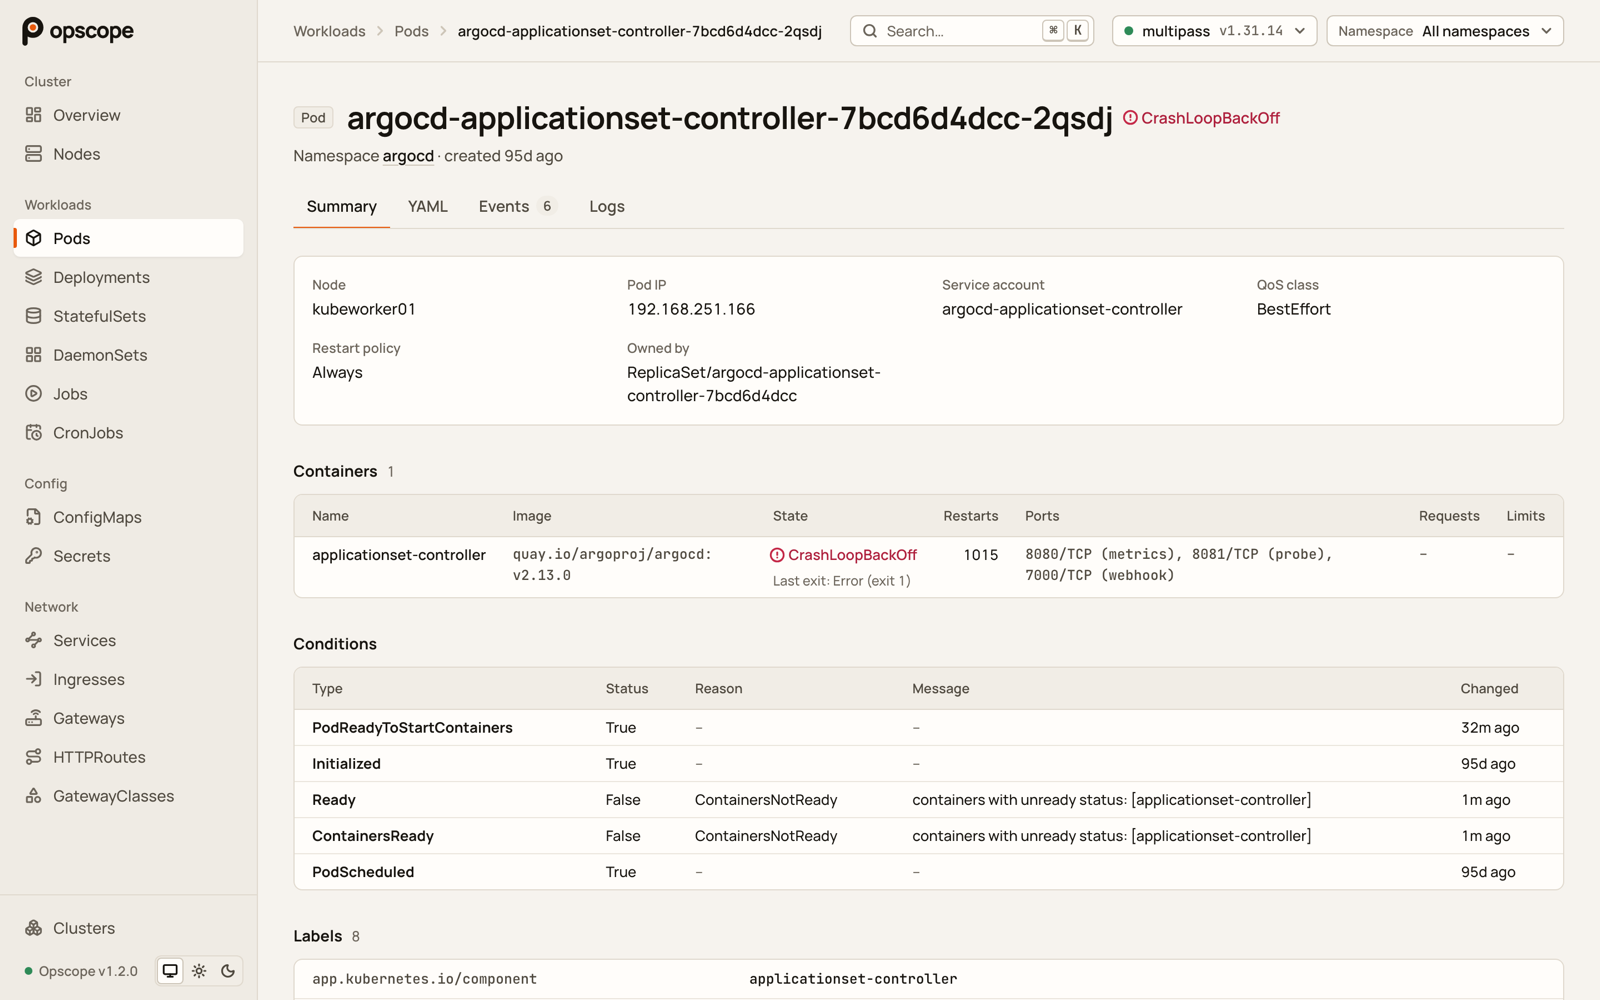
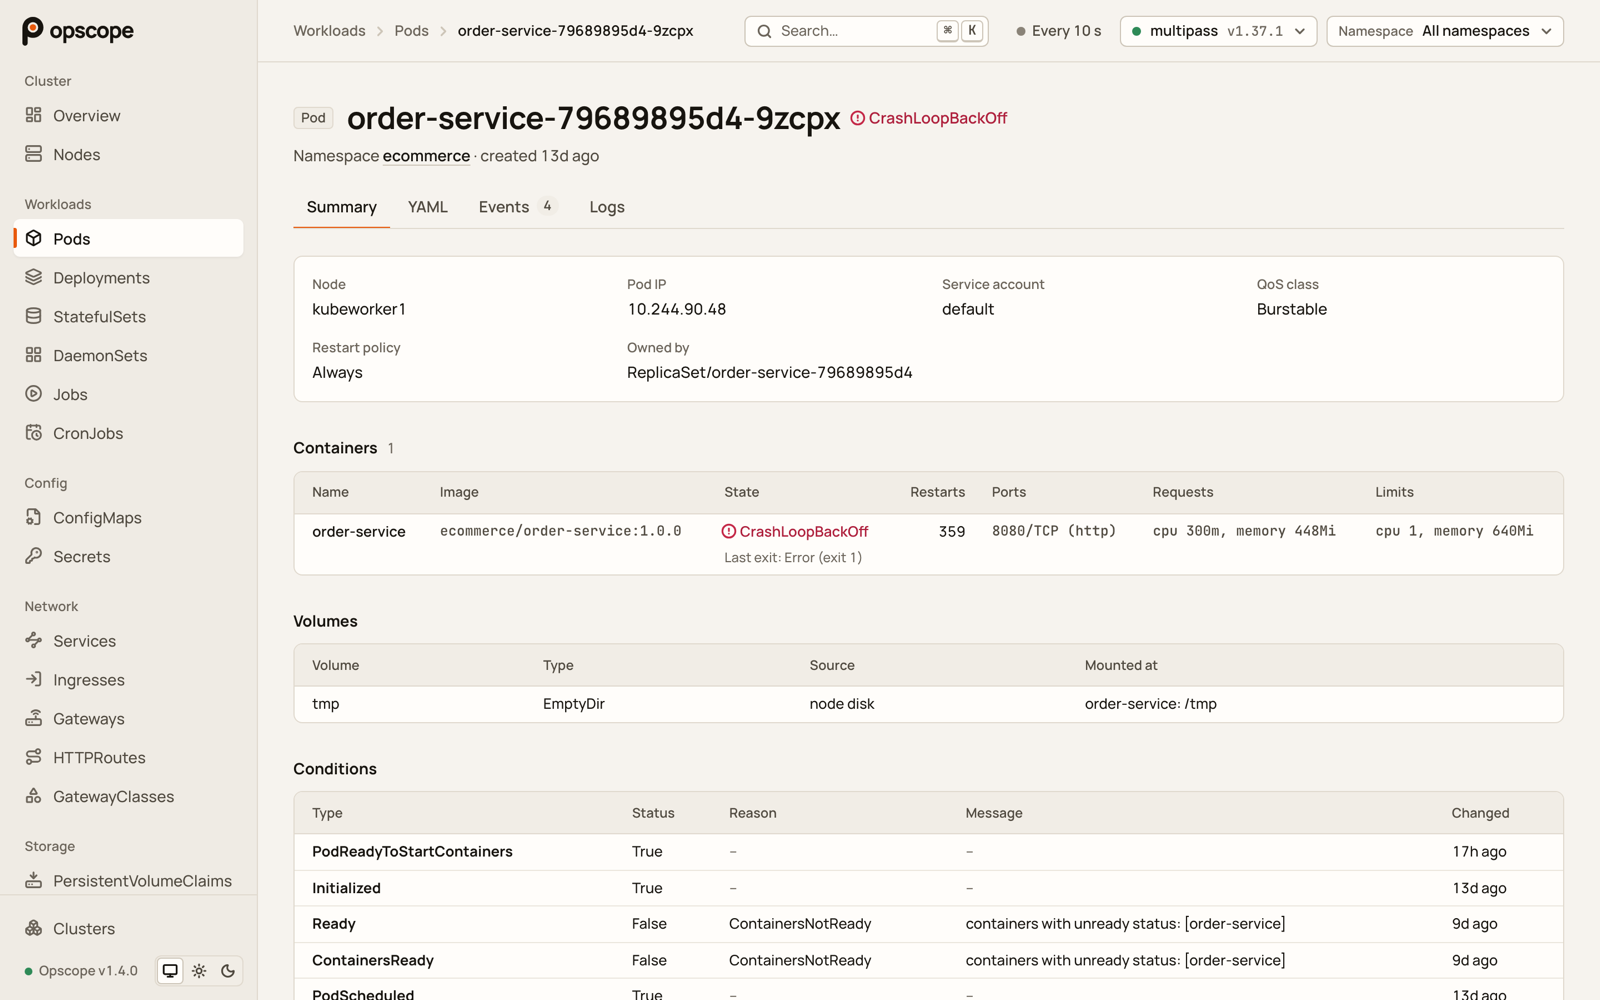
Release v1.4.0 (phase L7)
Point the deploy manifest at the v1.4.0 image, so the release
workflow's manifest check passes, and update the version in the
README's and deployment.md's manifest URLs, the image tag table, the
api.md health example and the bug report placeholder.

The README gains a Live updates feature and says the live copy drops
Secret values; the overview, pods and pod screenshots are retaken to
show the indicator. deployment.md says detail pages read "Every 10 s".
The live data design record is marked as released in v1.4.0, added to
the records table, and has the notes from the release checks.

diff --git a/docs/design/live-data.md b/docs/design/live-data.md
@@ -17,7 +17,7 @@ build phases 0–8 or the D, G, P, R and S phases. All work happens on the `docs
 one commit per phase; each phase is reviewed before it is committed, and the next phase starts only
 after that.
 
-**Status (2026-11-02):** planned.
+**Status (2026-11-07):** L0–L7 done, released in v1.4.0.
 
 **Legend:** `[x]` done · `[ ]` not done yet · `[~]` partly done or changed (see notes)
 
@@ -350,14 +350,14 @@ Goal: checked against failure cases, with published memory numbers.
 
 Goal: v1.4.0 is ready to tag.
 
-- [ ] Bugs found on the way fixed, one commit each
-- [ ] README feature list, screenshots that show the indicator
-- [ ] Every check CI runs: `make test`, `go vet`, `gofmt`, the frontend build, `make docker-build`
-- [ ] Full browser pass: light and dark, keyboard only, 375 px and wide, with and without
+- [x] Bugs found on the way fixed, one commit each
+- [x] README feature list, screenshots that show the indicator
+- [x] Every check CI runs: `make test`, `go vet`, `gofmt`, the frontend build, `make docker-build`
+- [x] Full browser pass: light and dark, keyboard only, 375 px and wide, with and without
       metrics-server and Gateway API, two clusters connected
-- [ ] Image tag in `deploy/kubernetes/opscope.yaml` and the manifest URLs in the README and
+- [x] Image tag in `deploy/kubernetes/opscope.yaml` and the manifest URLs in the README and
       `docs/deployment.md` set to v1.4.0
-- [ ] Status line, design record table, release notes drafted (the tag is pushed by the maintainer)
+- [x] Status line, design record table, release notes drafted (the tag is pushed by the maintainer)
 
 ## Not in this release
 
@@ -734,3 +734,32 @@ Goal: v1.4.0 is ready to tag.
 - Open question 4 (Events): an event takes a tenth of a pod's memory, so the proposal is to keep
   them cached; it's marked for review. Question 3 (`/metrics`) is unchanged: these measurements
   didn't need it.
+
+### L7: Release (2026-11-07)
+
+- Every check CI runs, on the branch: `go vet`, `gofmt`, `go test ./...` (also with `-race`), the
+  102 frontend tests, the frontend build, `make docker-build`, and the image for `linux/amd64` as
+  CI builds it. `.github/scripts/check-manifest-tag.sh v1.4.0` passes on the manifest.
+- Browser pass on a build served by the Go server as v1.4.0, with two clusters connected:
+  multipass (read-only), which has metrics-server and Gateway API, and a throwaway kind cluster
+  with `test/scenarios/workloads.yaml`, which has neither (deleted afterwards).
+  - Every page on both clusters: the indicator read "Live", no console errors. On kind, the usage
+    and Gateway API pages said what isn't installed, as before.
+  - Keyboard only: the skip link, back into the top bar, Enter opens the indicator's panel,
+    Escape closes it and returns focus, ⌘K finds the `oom` pod and opens it.
+  - 375 px: the panel stays on screen and the page doesn't scroll sideways. Light and dark in
+    `/kit` and in the screenshots.
+- Found and fixed (its own commit): detail pages said "Live", but they're read on their 10-second
+  timer, since live detail pages aren't in this release. A detail page now passes no live kinds,
+  and the indicator says "Every 10 s" in a neutral tone, explaining that lists and the overview
+  update live. The panel still lists the kinds that aren't watched. In `/kit` as "Detail page",
+  with a test; `docs/deployment.md` says so.
+- README: a "Live updates" feature, tables no longer described as refreshing on their own, and
+  Secret values dropped from the live copy in the Security section. The overview, pods and pod
+  screenshots were retaken on multipass, light and dark, so they show the indicator, the same way
+  as before (1440 × 900 at 2×, scaled to 1600 × 1000), now from a small script driving headless
+  Chrome over its DevTools protocol, which waits until the page has settled.
+- Version: the manifest's image, the manifest URLs in the README and `docs/deployment.md`, the
+  image tag table, the health example in `docs/api.md` and the bug report placeholder say v1.4.0.
+  The record is in the design records table.
+- Open questions 3 and 4 are still open, with their proposals.

diff --git a/docs/deployment.md b/docs/deployment.md
@@ -54,7 +54,7 @@ The manifests in each release tag use that release's published image, so you can
 straight from GitHub:
 
 ```bash
-kubectl apply -f https://raw.githubusercontent.com/unnikrishnanNam/opscope/v1.3.0/deploy/kubernetes/opscope.yaml
+kubectl apply -f https://raw.githubusercontent.com/unnikrishnanNam/opscope/v1.4.0/deploy/kubernetes/opscope.yaml
 ```
 
 From a clone of the repository, apply `deploy/kubernetes/opscope.yaml` the same way. Apply the file,
@@ -185,7 +185,8 @@ may be out of date, until it answers again.
 
 The top bar says which applies: **Live** when pages update within a few seconds of a change,
 **Every 30 s** or **Every 10 s** when some kinds can't be watched or listed across namespaces.
-Click it for the kinds and the reason.
+Click it for the kinds and the reason. Detail pages always read **Every 10 s**: they're read from
+the cluster each time, as before.
 
 ### Turning live data off
 
@@ -206,13 +207,13 @@ only its type and key names, so values are never stored, cached or logged.
 pod can read every Secret in the cluster, and so can anyone who can reach Opscope. To grant it:
 
 ```bash
-kubectl apply -f https://raw.githubusercontent.com/unnikrishnanNam/opscope/v1.3.0/deploy/kubernetes/secrets-access.yaml
+kubectl apply -f https://raw.githubusercontent.com/unnikrishnanNam/opscope/v1.4.0/deploy/kubernetes/secrets-access.yaml
 ```
 
 To remove it again:
 
 ```bash
-kubectl delete -f https://raw.githubusercontent.com/unnikrishnanNam/opscope/v1.3.0/deploy/kubernetes/secrets-access.yaml
+kubectl delete -f https://raw.githubusercontent.com/unnikrishnanNam/opscope/v1.4.0/deploy/kubernetes/secrets-access.yaml
 ```
 
 The Secrets pages then say that this user isn't allowed to read them.
@@ -314,8 +315,8 @@ Each release is published to the GitHub Container Registry for `linux/amd64` and
 
 | Tag       | Points to                                         |
 | --------- | ------------------------------------------------- |
-| `v1.3.0`  | That release, never moved                         |
-| `1.3`     | The latest release of that minor version          |
+| `v1.4.0`  | That release, never moved                         |
+| `1.4`     | The latest release of that minor version          |
 | `latest`  | The latest release (pre-releases are never tagged `latest`) |
 
 On a server, pin a version tag, so that a restart never upgrades Opscope by surprise. The commands
@@ -365,11 +366,11 @@ Usage history is kept in memory and starts empty after a restart. Each release's
 **In a cluster,** delete the optional roles you applied, then `opscope.yaml`:
 
 ```bash
-kubectl delete -f https://raw.githubusercontent.com/unnikrishnanNam/opscope/v1.3.0/deploy/kubernetes/secrets-access.yaml --ignore-not-found
+kubectl delete -f https://raw.githubusercontent.com/unnikrishnanNam/opscope/v1.4.0/deploy/kubernetes/secrets-access.yaml --ignore-not-found
 ```
 
 ```bash
-kubectl delete -f https://raw.githubusercontent.com/unnikrishnanNam/opscope/v1.3.0/deploy/kubernetes/opscope.yaml
+kubectl delete -f https://raw.githubusercontent.com/unnikrishnanNam/opscope/v1.4.0/deploy/kubernetes/opscope.yaml
 ```
 
 Do the same for `volume-usage.yaml` if you applied it. Deleting `opscope.yaml` deletes the

diff --git a/README.md b/README.md
@@ -27,8 +27,13 @@ machine or inside the cluster it shows.
   resource kind with what needs attention, and recent warning events.
 - **Resources:** Nodes; Pods, Deployments, StatefulSets, DaemonSets, Jobs and CronJobs;
   ConfigMaps and Secrets; Services, Ingresses, and Gateway API Gateways, HTTPRoutes and
-  GatewayClasses; PersistentVolumeClaims, PersistentVolumes and StorageClasses. Tables filter, sort
-  and refresh on their own, with kubectl-style statuses such as `CrashLoopBackOff` and `Init:1/2`.
+  GatewayClasses; PersistentVolumeClaims, PersistentVolumes and StorageClasses. Tables filter and
+  sort, with kubectl-style statuses such as `CrashLoopBackOff` and `Init:1/2`.
+- **Live updates:** lists and the overview change within a second or two of a change in the
+  cluster, without reloading. Opscope watches each cluster and keeps a trimmed copy in memory, so
+  pages load quickly and a cluster gets one watch per kind rather than a request per page view. The
+  top bar says how fresh the page is. Without `watch`, Opscope polls and says so
+  ([permissions](docs/deployment.md#with-less-access), [memory](docs/deployment.md#memory)).
 - **Storage:** claims link to their volumes, StorageClasses and the pods that use them, pods and
   StatefulSets show their volumes and claims, and the overview counts claims that can't bind and
   volumes left behind. Optionally, how full each volume is
@@ -71,7 +76,7 @@ clusters, and cleaning up.
 In the cluster Opscope should show:
 
 ```bash
-kubectl apply -f https://raw.githubusercontent.com/unnikrishnanNam/opscope/v1.3.0/deploy/kubernetes/opscope.yaml
+kubectl apply -f https://raw.githubusercontent.com/unnikrishnanNam/opscope/v1.4.0/deploy/kubernetes/opscope.yaml
 ```
 
 ```bash
@@ -137,7 +142,8 @@ Shortcuts are ignored while you type in a field.
   `127.0.0.1`, reach it through `kubectl port-forward` in a cluster, or put an authenticating proxy
   in front of it. See [Giving people access](docs/deployment.md#giving-people-access).
 - **Secrets** are listed by key name only. A value is fetched only when you choose "Reveal" on one
-  key, is never cached, and never appears in the YAML view. Reading Secrets in a cluster needs a
+  key, is never cached (the live copy drops values as each Secret arrives), and never appears in
+  the YAML view. Reading Secrets in a cluster needs a
   separate, optional role.
 - **Volume usage** is off by default. It needs `get` on `nodes/proxy`, which reaches the kubelet's
   whole API, so it's turned on deliberately, with a setting and a separate, optional role. See
@@ -151,7 +157,7 @@ Shortcuts are ignored while you type in a field.
 
 <picture>
   <source media="(prefers-color-scheme: dark)" srcset="docs/screenshots/overview-dark.png">
-  <img src="docs/screenshots/overview-light.png" alt="The Opscope overview: a health summary, nodes, pods, CPU and memory usage, every resource kind with what needs attention, and per-node usage">
+  <img src="docs/screenshots/overview-light.png" alt="The Opscope overview: a health summary, nodes, pods, CPU and memory usage, every resource kind with what needs attention, per-node usage, and the Live indicator in the top bar">
 </picture>
 
 | Pods | A pod's detail page |

diff --git a/docs/design/README.md b/docs/design/README.md
@@ -12,6 +12,7 @@ describe how Opscope got there.
 | [command-palette.md](command-palette.md)  | The command palette, the command registry, keyboard shortcuts | v1.2.0   |
 | [repositioning.md](repositioning.md)      | Opscope as an operations tool: licence, documentation, positioning | v1.3.0   |
 | [storage.md](storage.md)                  | Storage pages: PersistentVolumeClaims, PersistentVolumes, StorageClasses, volume usage | v1.3.0   |
+| [live-data.md](live-data.md)              | Live data: a watch cache per cluster, the event bus, pages that update as the cluster changes | v1.4.0   |
 
 ## When to write one
 

diff --git a/docs/api.md b/docs/api.md
@@ -52,7 +52,7 @@ or "turned off" from an error:
 ### `GET /api/health`
 
 ```json
-{ "status": "ok", "version": "v1.3.0" }
+{ "status": "ok", "version": "v1.4.0" }
 ```
 
 Used by the Kubernetes liveness and readiness probes. It doesn't contact any cluster.
